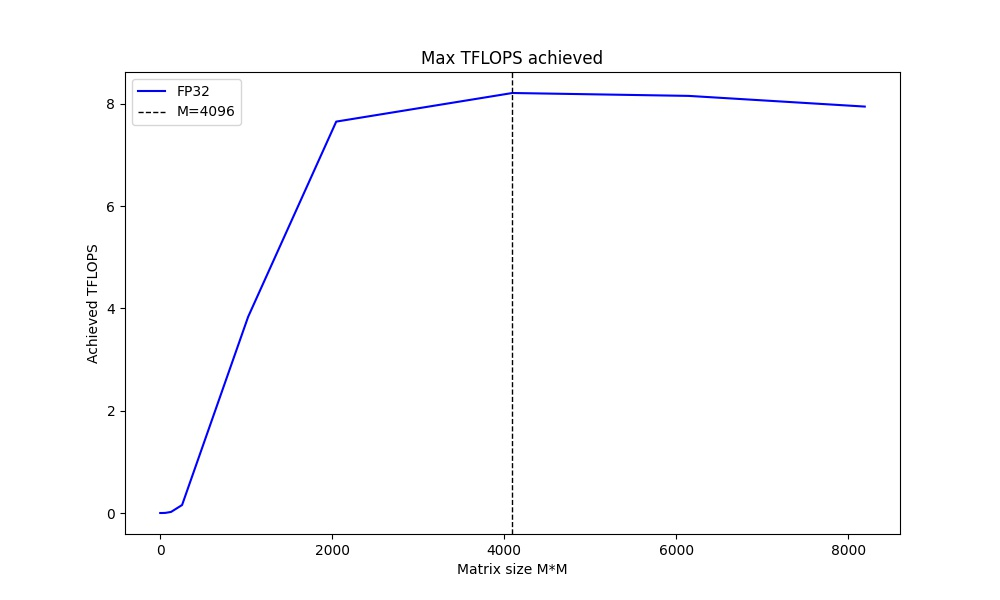
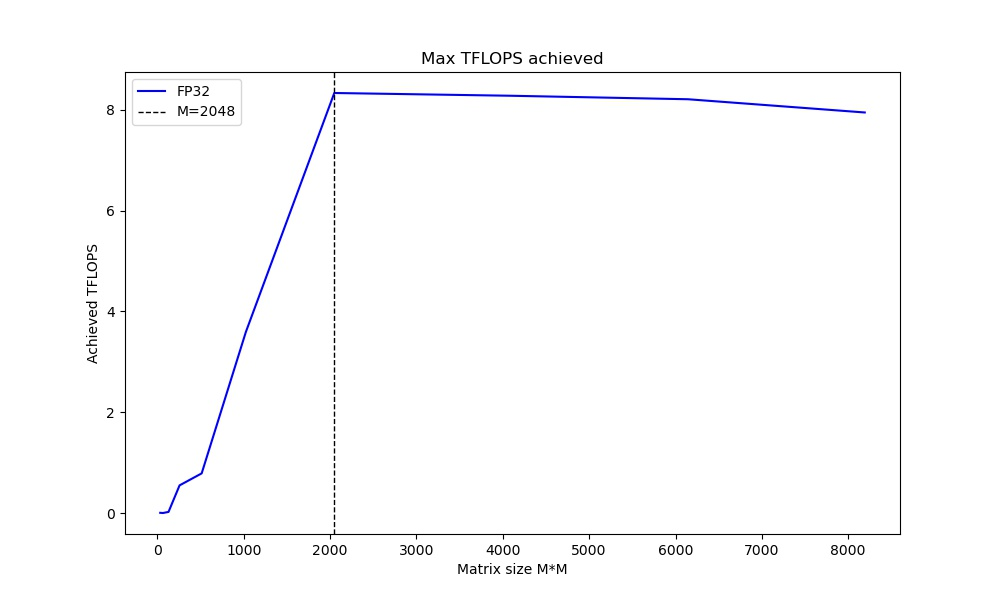
Update tflop sweep

diff --git a/burn.py b/burn.py
@@ -1,9 +1,7 @@
 import argparse
 parser = argparse.ArgumentParser()
-parser.add_argument("--iterations", default=100, type=int,
+parser.add_argument("--iterations", default=1000, type=int,
                     help="Number of iterations to run within each benchmark")
-parser.add_argument("--time", default=10, type=int,
-                    help="Min time to continuously run the stress test")
 args = parser.parse_args()
 
 import os
@@ -20,22 +18,24 @@ def benchmark_matmul(M, dtype=tf.float32, iterations=100):
         A = tf.random.normal([M, M], mean=0, stddev=1, dtype=dtype)
         B = tf.random.normal([M, M], mean=0, stddev=1, dtype=dtype)
         C = do_op(A, B)
+        slots = [A, B]
+        C = do_op(slots[0], slots[1])
     C.numpy()
     time.sleep(1)
     # measure overhead
     st = time.time()
-    with tf.device("/GPU:0"):
-        for _ in range(1):
-            C = do_op(A, B)
+    for _ in range(1):
+        with tf.device("/GPU:0"):
+            C = do_op(slots[0], slots[1])
     C.numpy()
     et = time.time()
     overhead = et - st
     time.sleep(1)
     # run benchmark
     st = time.time()
-    with tf.device("/GPU:0"):
-        for _ in range(iterations+1):
-            C = do_op(A, B)
+    for _ in range(iterations+1):
+        with tf.device("/GPU:0"):
+            C = do_op(slots[0], slots[1])
     C.numpy()
     et = time.time()
     duration = (et-st) - overhead
@@ -44,7 +44,7 @@ def benchmark_matmul(M, dtype=tf.float32, iterations=100):
 fp16_matmul, fp32_matmul, fp64_matmul = [], [], []
 fp16_tflops, fp32_tflops, fp64_tflops = [], [], []
 
-M_list = [32, 64, 128, 256, 512, 1024, 2048, 4096, 6144, 8192][::-1]
+M_list = [1024*8] * 10
 
 print("\nStarting burn...\n")
 
@@ -57,20 +57,17 @@ for M in tqdm(M_list):
     fp32_matmul.append(ret)
     fp32_tflops.append(tflops)
     print(tflops)
-    time.sleep(1)
+    #time.sleep(1)
     
 burn_end = time.time()
     
 print("\nFinished in", int(burn_end-burn_start), "seconds\n")
-
-max_tflop = max(fp32_tflops)
-max_tflop_M = M_list[fp32_tflops.index(max_tflop)]
     
 title = "Max TFLOPS achieved"
 print("")
 print(title)
 print("="*len(title))
-print("* FP32:", round(max_tflop, 1), "TFLOPS")
+print("* FP32:", int(max(fp32_tflops)), "TFLOPS")
 print("")
 
 from matplotlib import pyplot as plt
@@ -78,7 +75,7 @@ plt.clf()
 plt.figure(figsize=(10,6), dpi=100)
 plt.title(title)
 plt.plot(M_list, fp32_tflops, label="FP32", color="b")
-plt.axvline(max_tflop_M, color="k", linestyle="--", linewidth=1, label="M="+str(max_tflop_M))
+plt.axvline(4096, color="k", linestyle="--", linewidth=1, label="M=4096")
 plt.xlabel("Matrix size M*M")
 plt.ylabel("Achieved TFLOPS")
 plt.legend()

diff --git a/bm_rn50.py b/bm_rn50.py
@@ -49,7 +49,7 @@ model.compile(optimizer=tf.keras.optimizers.SGD(learning_rate=base_learning_rate
 
 _ = model.fit(x=dataset_x, y=dataset_y, batch_size=batch_size, epochs=1)
 
-benchmark_epochs = 2
+benchmark_epochs = 3
 st = time.time()
 _ = model.fit(x=dataset_x, y=dataset_y, batch_size=batch_size, epochs=benchmark_epochs)
 et = time.time()
